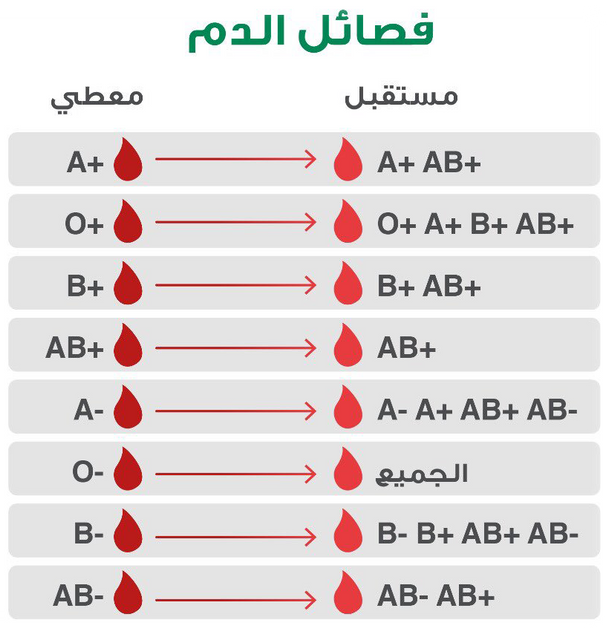
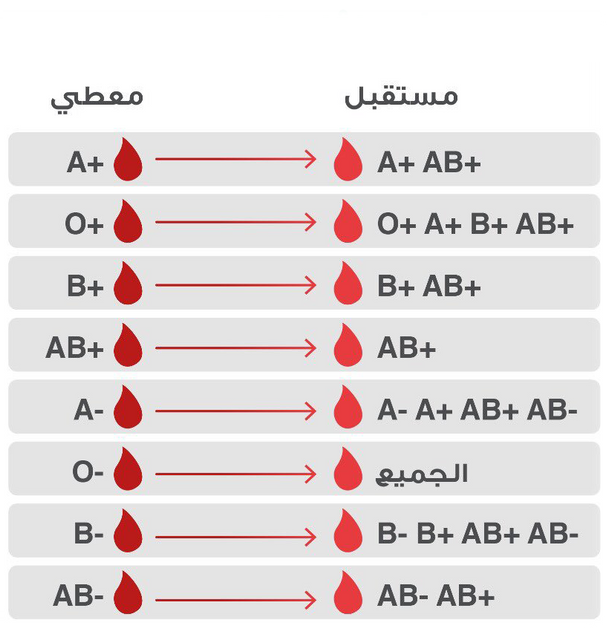
edit app structure

Changed region(s): [[0.312, 0.0, 0.7176, 0.0938]]

diff --git a/lib/Screens/BloodTypes.dart b/lib/Screens/BloodTypes.dart
@@ -1,0 +1,63 @@
+import 'package:blood_donation/shared/Constants.dart';
+import 'package:blood_donation/shared/Cubit/Cubit.dart';
+import 'package:blood_donation/shared/Cubit/States.dart';
+import 'package:blood_donation/shared/components.dart';
+import 'package:blood_donation/shared/themes.dart';
+import 'package:flutter/cupertino.dart';
+import 'package:flutter/material.dart';
+import 'package:flutter_bloc/flutter_bloc.dart';
+
+class BloodTypes extends StatefulWidget {
+  const BloodTypes({Key? key}) : super(key: key);
+  @override
+  _BloodTypesState createState() => _BloodTypesState();
+}
+
+class _BloodTypesState extends State<BloodTypes> {
+  @override
+  Widget build(BuildContext context) {
+    return MaterialApp(
+      debugShowCheckedModeBanner: false,
+      builder: (conext, child) {
+        return BlocProvider(
+          create: (context)=>AppCubit(),
+          child: BlocConsumer<AppCubit,AppStates>
+            (
+            listener: (context,state){},
+            builder: (context,state)
+            {
+              return MaterialApp(
+                debugShowCheckedModeBanner: false,
+                theme: lighttheme,
+                darkTheme:darktheme,
+                themeMode: ThemeMode.system,
+                home: Scaffold(
+                  appBar: AppBar(
+                    elevation: 0,
+                    title: Text('فصائل الدم'),
+                    centerTitle: true,
+                    leading: TextButton(
+                      onPressed: () {
+                        Navigator.of(context).pop();
+                      },
+                      child: Icon(
+                        Icons.arrow_back_ios,
+                        color: Colors.red,
+                      ),
+                    ),
+                  ),
+                  body: SingleChildScrollView(
+                    child: Padding(
+                      padding: EdgeInsets.all(10.0),
+                      child: Center(child: Image.asset(Constants.bloodtypes)),
+                    ),
+                  ),
+                ),
+              );
+            },
+          ),
+        );
+      },
+    );
+  }
+}

diff --git a/lib/Widgets/Drawer.dart b/lib/Widgets/Drawer.dart
@@ -1,6 +1,7 @@
 import 'dart:io';
 
 import 'package:blood_donation/Home.dart';
+import 'package:blood_donation/Screens/BloodTypes.dart';
 import 'package:blood_donation/Screens/Blood_Donation_Benf.dart';
 import 'package:blood_donation/Screens/Mail_Page.dart';
 import 'package:blood_donation/Screens/Need_Donation.dart';
@@ -72,32 +73,7 @@ class CustomDrawer extends StatelessWidget {
                 ],
               ),
               onTap: () {
-                showDialog(
-                  context: context,
-                  builder: (context) => Dialog(
-                    elevation: 2,
-                    insetAnimationCurve: Curves.easeInOutQuart,
-                    backgroundColor: Colors.transparent,
-                    child: Column(
-                      mainAxisAlignment: MainAxisAlignment.center,
-                      children: [
-                        Image.asset(Constants.bloodtypes),
-                        TextButton(
-                          onPressed: () {
-                            Navigator.pop(context);
-                          },
-                          child: Text(
-                            'Close',
-                            style: TextStyle(
-                                color: Colors.red,
-                                fontWeight: FontWeight.bold,
-                                fontSize: 20),
-                          ),
-                        )
-                      ],
-                    ),
-                  ),
-                );
+                Navigator.of(context).push(MaterialPageRoute(builder: (BuildContext context)=>BloodTypes()));
               },
             ),
             Divider(thickness: 1, color: Colors.black),
